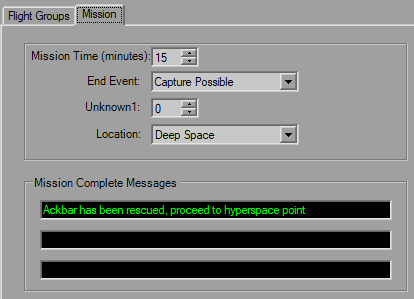
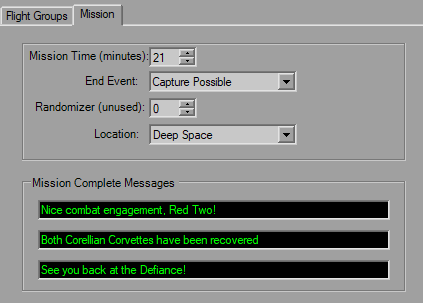
more xml and comments, help updates

Changed region(s): [[0.058, 0.5719, 0.9855, 0.9933], [0.058, 0.1204, 0.9855, 0.5418], [0.0, 0.0, 0.3188, 1.0]]

diff --git a/help file/pages/XvT/miss.html b/help file/pages/XvT/miss.html
@@ -8,6 +8,7 @@
 <p align=center><img src="../../images/XvT/Miss.png"></p>
 The Mission tab sets a couple of other overall settings.  The large text boxes at the top (when available) are the mission texts for before and after the missions.<br><br>
 Below that is the Mission Type, which normally will be "Training".  Set a time limit for the mission if you wish, and below that is the option to toggle the mission between XvT and BoP.<br><br>
-There's some Unknown values that you can play with as well here.
+There's some Unknown values that you can play with as well here, a couple of which have now been uncovered.<br><br>
+Former unknowns 0x28 and 0x50 (Unknown4 and 5 in the mission format specs) are part of the BoP IFF names added in 1.7. The former 0x65 (Unk6) is now "Prevent Mission Outcome", which prevents the mission from ending based on goals.
 </body>
 </html>

diff --git a/help file/pages/XW/miss.html b/help file/pages/XW/miss.html
@@ -7,6 +7,7 @@
 <p align=center><big><h1>Mission Parameters</h1></big></p>
 <p align=center><img src="../../images/XW/Miss.png"></p>
 The Mission tab is rather simple and straight-forward. There'a time limit and then a couple settings for the location, death outcome and Death Star settings.<br><br>
-The Mission Complete Messages are different in that all three are for Mission Complete only, and will display in sequence.
+The Mission Complete Messages are different in that all three are for Mission Complete only, and will display in sequence.<br><br>
+The Randomizer value (formerly Unk1) is supposed to act as a random generator seed for backdrops, however is never used.
 </body>
 </html>

diff --git a/MapForm.cs b/MapForm.cs
@@ -7,7 +7,9 @@
  */
 
 /* CHANGELOG
+ * v1.7, XXXXXX
  * [FIX] Unregister Tick handler to prevent misfires after closing [JB]
+ * [UPD] form handlers renamed
  * v1.6.5, 200704
  * [NEW] if pulling from imgCraft trips an OutOfRange, default to img[0]
  * v1.5, 180910
@@ -548,7 +550,7 @@ namespace Idmr.Yogeme
 				lblOrder.Visible = true;
 				numOrder.Visible = true;
 			}
-			MouseWheel += new MouseEventHandler(frmMap_MouseWheel);	// this is here because of some stupid reason, MouseWheel isn't available in the GUI
+			MouseWheel += new MouseEventHandler(form_MouseWheel);	// this is here because of some stupid reason, MouseWheel isn't available in the GUI
 
 			_loading = false;
 		}
@@ -1226,9 +1228,9 @@ namespace Idmr.Yogeme
 		}
 		#endregion
 		#region frmMap
-		void frmMap_Activated(object sender, EventArgs e) { MapPaint(true); }
-        void frmMap_FormClosed(object sender, FormClosedEventArgs e) { _map.Dispose(); }
-		void frmMap_FormClosing(object sender, FormClosingEventArgs e)
+		void form_Activated(object sender, EventArgs e) { MapPaint(true); }
+        void form_FormClosed(object sender, FormClosedEventArgs e) { _map.Dispose(); }
+		void form_FormClosing(object sender, FormClosingEventArgs e)
 		{
 			onDataModified = null;
 			_isClosing = true;
@@ -1237,32 +1239,32 @@ namespace Idmr.Yogeme
 			mapPaintRedrawTimer.Stop();
 			mapPaintRedrawTimer.Tick -= mapPaintRedrawTimer_Tick;
 		}
-        void frmMap_Load(object sender, EventArgs e)
+        void form_Load(object sender, EventArgs e)
 		{
 			_map = new Bitmap(w, h, PixelFormat.Format24bppRgb);
 			MapPaint(true);
 		}
-		void frmMap_MouseWheel(object sender, MouseEventArgs e)
+		void form_MouseWheel(object sender, MouseEventArgs e)
 		{
 			if (hscZoom.Value < 25 && e.Delta < 0) hscZoom.Value = 5;
 			else if (hscZoom.Value > 480 && e.Delta > 0) hscZoom.Value = 500;
 			else hscZoom.Value += 10 * Math.Sign(e.Delta);
 		}
-		void MapForm_Resize(object sender, EventArgs e)
+		void form_Resize(object sender, EventArgs e)
 		{
 			if (!_isDragged) updateLayout();
 		}
-		void MapForm_ResizeBegin(object sender, EventArgs e)
+		void form_ResizeBegin(object sender, EventArgs e)
 		{
 			_isDragged = true;
 		}
-		void MapForm_ResizeEnd(object sender, EventArgs e)
+		void form_ResizeEnd(object sender, EventArgs e)
 		{
 			_isDragged = false;
 			updateLayout();
 		}
 
-        void MapForm_KeyDown(object sender, KeyEventArgs e)
+        void form_KeyDown(object sender, KeyEventArgs e)
         {
             if (lstSelected.Focused)
             {
@@ -1338,7 +1340,7 @@ namespace Idmr.Yogeme
             }
             e.Handled = true;
         }
-        void MapForm_KeyUp(object sender, KeyEventArgs e)
+        void form_KeyUp(object sender, KeyEventArgs e)
         {
             if (!_mapFocus) return;
             _shiftState = e.Shift;

diff --git a/MapForm.Designer.cs b/MapForm.Designer.cs
@@ -610,15 +610,15 @@ namespace Idmr.Yogeme
 			this.MinimumSize = new System.Drawing.Size(700, 563);
 			this.Name = "MapForm";
 			this.Text = "YOGEME Map Interface";
-			this.Activated += new System.EventHandler(this.frmMap_Activated);
-			this.FormClosing += new System.Windows.Forms.FormClosingEventHandler(this.frmMap_FormClosing);
-			this.FormClosed += new System.Windows.Forms.FormClosedEventHandler(this.frmMap_FormClosed);
-			this.Load += new System.EventHandler(this.frmMap_Load);
-			this.ResizeBegin += new System.EventHandler(this.MapForm_ResizeBegin);
-			this.ResizeEnd += new System.EventHandler(this.MapForm_ResizeEnd);
-			this.KeyDown += new System.Windows.Forms.KeyEventHandler(this.MapForm_KeyDown);
-			this.KeyUp += new System.Windows.Forms.KeyEventHandler(this.MapForm_KeyUp);
-			this.Resize += new System.EventHandler(this.MapForm_Resize);
+			this.Activated += new System.EventHandler(this.form_Activated);
+			this.FormClosing += new System.Windows.Forms.FormClosingEventHandler(this.form_FormClosing);
+			this.FormClosed += new System.Windows.Forms.FormClosedEventHandler(this.form_FormClosed);
+			this.Load += new System.EventHandler(this.form_Load);
+			this.ResizeBegin += new System.EventHandler(this.form_ResizeBegin);
+			this.ResizeEnd += new System.EventHandler(this.form_ResizeEnd);
+			this.KeyDown += new System.Windows.Forms.KeyEventHandler(this.form_KeyDown);
+			this.KeyUp += new System.Windows.Forms.KeyEventHandler(this.form_KeyUp);
+			this.Resize += new System.EventHandler(this.form_Resize);
 			((System.ComponentModel.ISupportInitialize)(this.pctMap)).EndInit();
 			this.grpDir.ResumeLayout(false);
 			this.grpPoints.ResumeLayout(false);

diff --git a/XwingForm.cs b/XwingForm.cs
@@ -8,10 +8,12 @@
  */
 
 /* CHANGELOG:
+ * v1.7, XXXXXX
  * [FIX] Starting ships set to 1 [JB]
  * [UPD] Unk1 now RandomSeed [JB]
  * [UPD] MaxCraft increased to 255 [JB]
  * [UPD] Yaw/Pitch/Roll tweaks, save fixed [JB]
+ * [UPD] form handlers renamed
  * v1.6.5, 200704
  * [NEW] Custom shiplist
  * [FIX #32] bin path now explicitly uses Startup Path to prevent implicit from defaulting to sys32
@@ -604,7 +606,7 @@ namespace Idmr.Yogeme
             e.Graphics.DrawString(e.Index >= 0 ? variable.Items[e.Index].ToString() : "", e.Font, brText, e.Bounds, StringFormat.GenericDefault);
         }
         
-		void frmXwing_Activated(object sender, EventArgs e)
+		void form_Activated(object sender, EventArgs e)
 		{
 			if (_fMap != null)
 			{
@@ -612,7 +614,7 @@ namespace Idmr.Yogeme
 				lstFG.SelectedIndex = _activeFG;
 			}
 		}
-		void frmXwing_Closing(object sender, System.ComponentModel.CancelEventArgs e)
+		void form_Closing(object sender, System.ComponentModel.CancelEventArgs e)
 		{
 			promptSave();
 			if (_config.ConfirmExit && _applicationExit)
@@ -623,7 +625,7 @@ namespace Idmr.Yogeme
 			closeForms();
 			if (_applicationExit) Application.Exit();
 		}
-		void XwingForm_KeyDown(object sender, KeyEventArgs e)
+		void form_KeyDown(object sender, KeyEventArgs e)
 		{
 			//Instead of using a global shortcut for Delete in designer.cs
 			//   this.menuDelete.Shortcut = System.Windows.Forms.Shortcut.Del;

diff --git a/XwingForm.Designer.cs b/XwingForm.Designer.cs
@@ -2262,9 +2262,9 @@ namespace Idmr.Yogeme
 			this.Name = "XwingForm";
 			this.StartPosition = System.Windows.Forms.FormStartPosition.CenterScreen;
 			this.Text = "Ye Olde Galactic Empire Mission Editor - X-wing";
-			this.Activated += new System.EventHandler(this.frmXwing_Activated);
-			this.Closing += new System.ComponentModel.CancelEventHandler(this.frmXwing_Closing);
-			this.KeyDown += new System.Windows.Forms.KeyEventHandler(this.XwingForm_KeyDown);
+			this.Activated += new System.EventHandler(this.form_Activated);
+			this.Closing += new System.ComponentModel.CancelEventHandler(this.form_Closing);
+			this.KeyDown += new System.Windows.Forms.KeyEventHandler(this.form_KeyDown);
 			this.tabMain.ResumeLayout(false);
 			this.tabFG.ResumeLayout(false);
 			this.tabFGMinor.ResumeLayout(false);

diff --git a/FormationDialog.cs b/FormationDialog.cs
@@ -7,6 +7,7 @@
  */
 
 /* CHANGELOG
+ * v1.7, XXXXXX
  * [UPD] Images are now foreground instead of background [JB]
  * v1.2.3, 141214
  * [UPD] change to MPL
@@ -57,7 +58,7 @@ namespace Idmr.Yogeme
 		public void SetToTie95()
 		{
 			cboFormation.Items.Clear();
-			cboFormation.Items.AddRange(Idmr.Platform.Tie.Strings.Formation);
+			cboFormation.Items.AddRange(Platform.Tie.Strings.Formation);
 			cboFormation.SelectedIndex = _index;
 		}
 

diff --git a/BackdropDialog.cs b/BackdropDialog.cs
@@ -7,6 +7,7 @@
  */
 
 /* CHANGELOG
+ * v1.7, XXXXXX
  * [UPD] images now use foreground instead of background [JB]
  * [FIX] possible IndexOutOfRange when clicking thumbnails [JB]
  * v1.6.2, 190928

diff --git a/TieForm.cs b/TieForm.cs
@@ -7,6 +7,7 @@
  */
 
 /* CHANGELOG
+ * v1.7, XXXXXX
  * [UPD] Blank messages now shown as "*" [JB]
  * [UPD] Cleanup index substitions [JB]
  * [UPD] Trigger label refresh updates [JB]

diff --git a/XvtForm.cs b/XvtForm.cs
@@ -7,6 +7,7 @@
  */
 
 /* CHANGELOG
+ * v1.7, XXXXXX
  * [UPD] Blank messages now shown as "*" [JB]
  * [UPD] Cleanup index substitions [JB]
  * [UPD] Trigger label refresh updates [JB]

diff --git a/XwaForm.cs b/XwaForm.cs
@@ -7,6 +7,7 @@
  */
 
 /* CHANGELOG
+ * v1.7, XXXXXX
  * [UPD] Blank messages now shown as "*" [JB]
  * [UPD] Cleanup index substitions [JB]
  * [UPD] Trigger label refresh updates [JB]

diff --git a/classes/Common.cs b/classes/Common.cs
@@ -7,6 +7,7 @@
  */
 
 /* CHANGELOG
+ * v1.7, XXXXXX
  * [NEW] SafeString(), ParseAfterInt() [JB]
  * v1.6.5, 200704
  * [UPD] More details to ProcessCraftList error message
